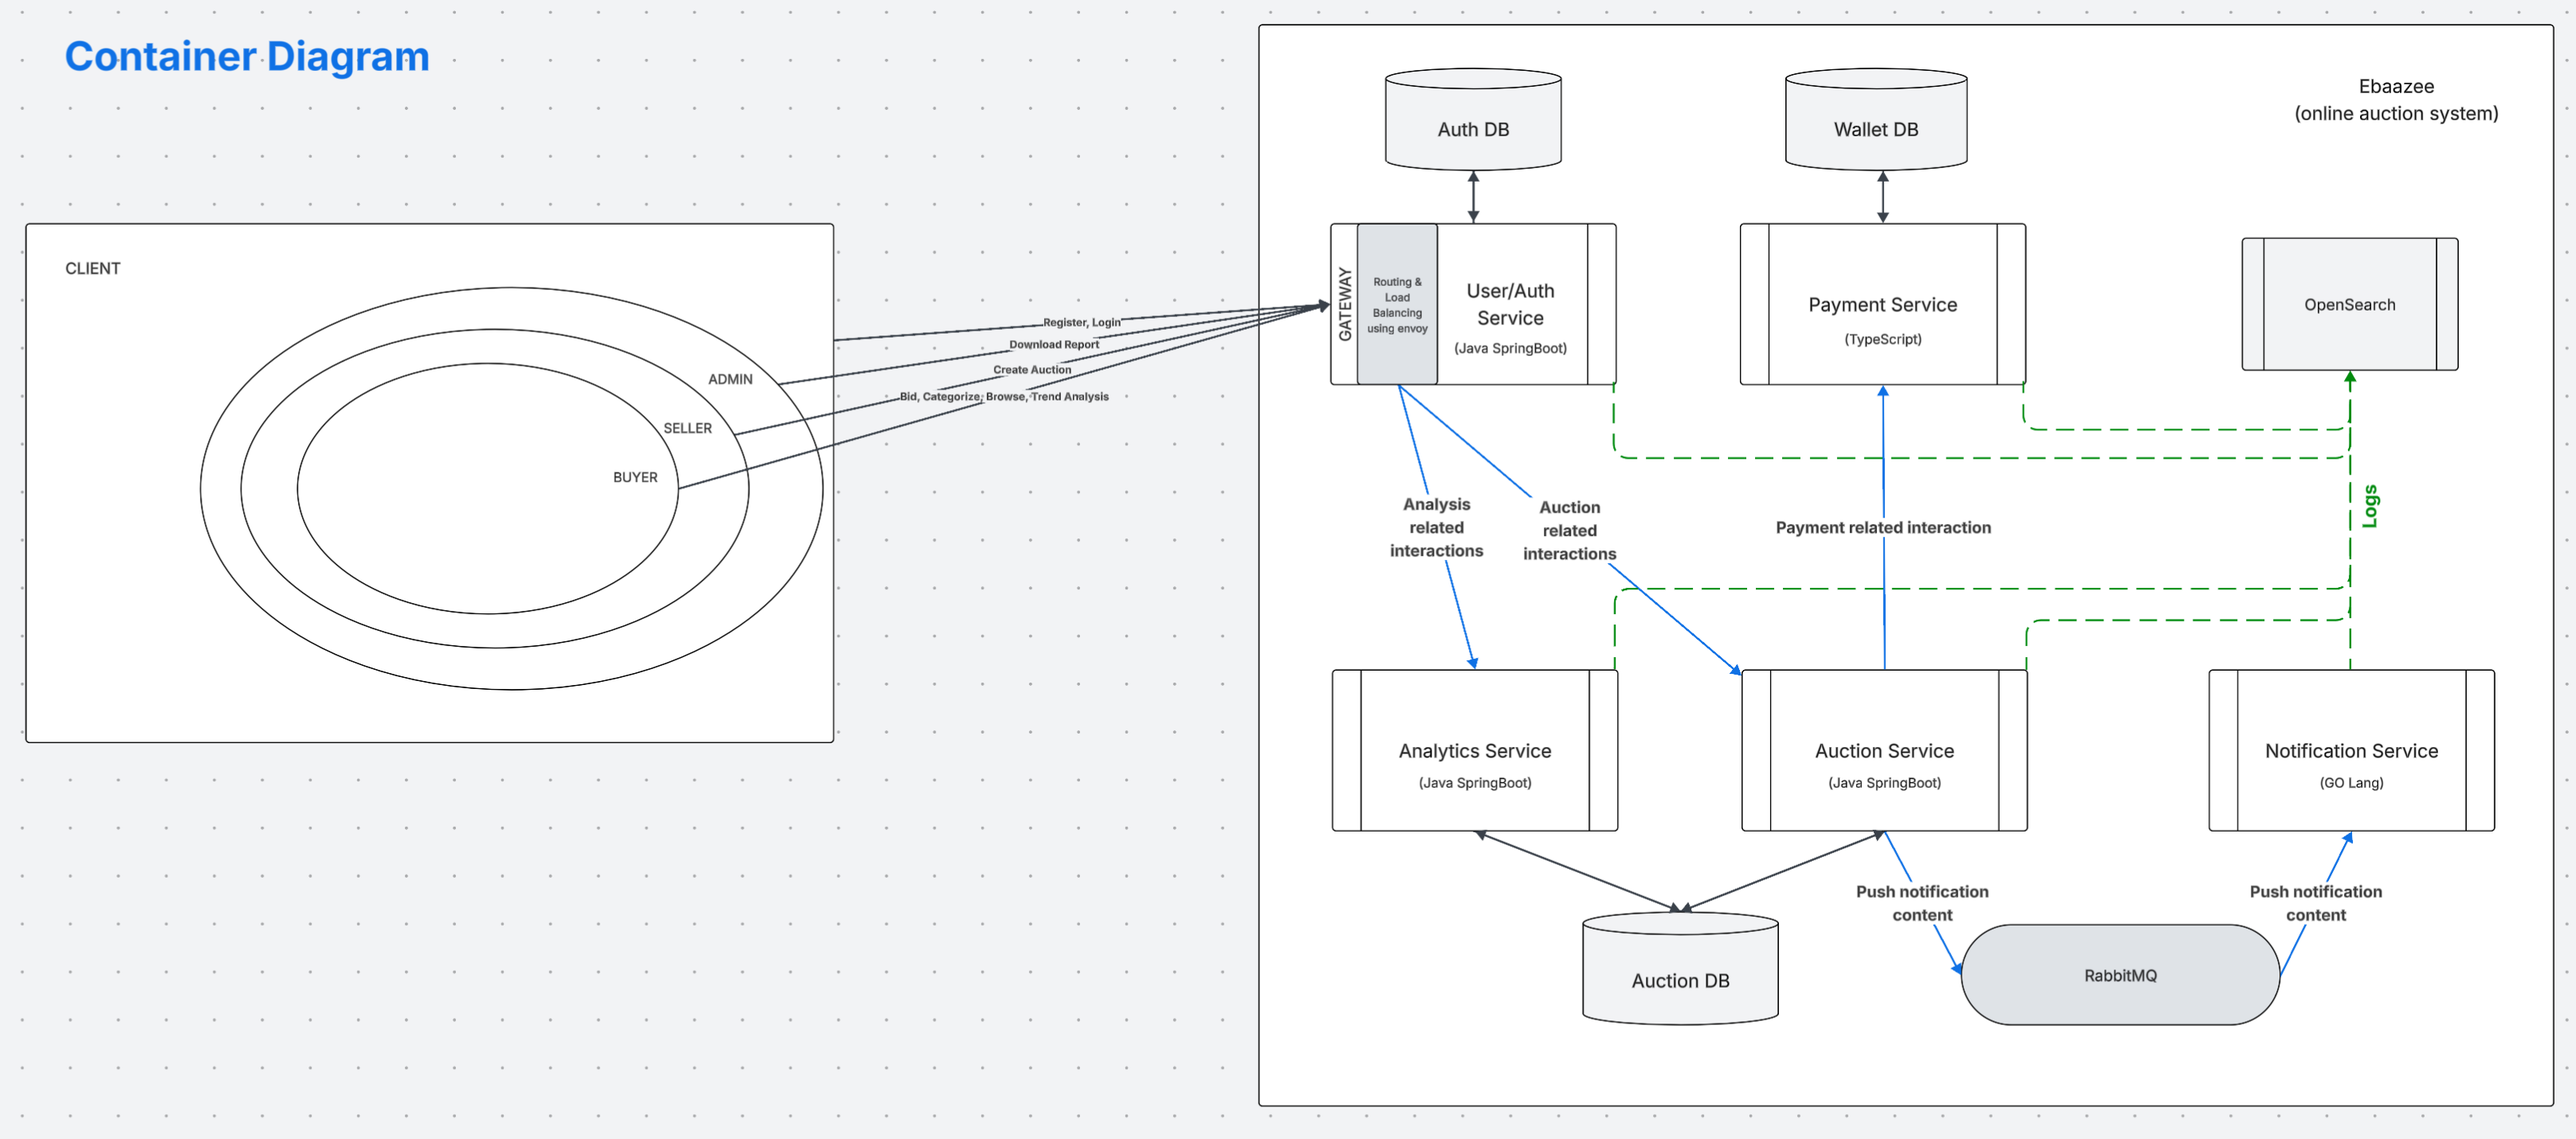
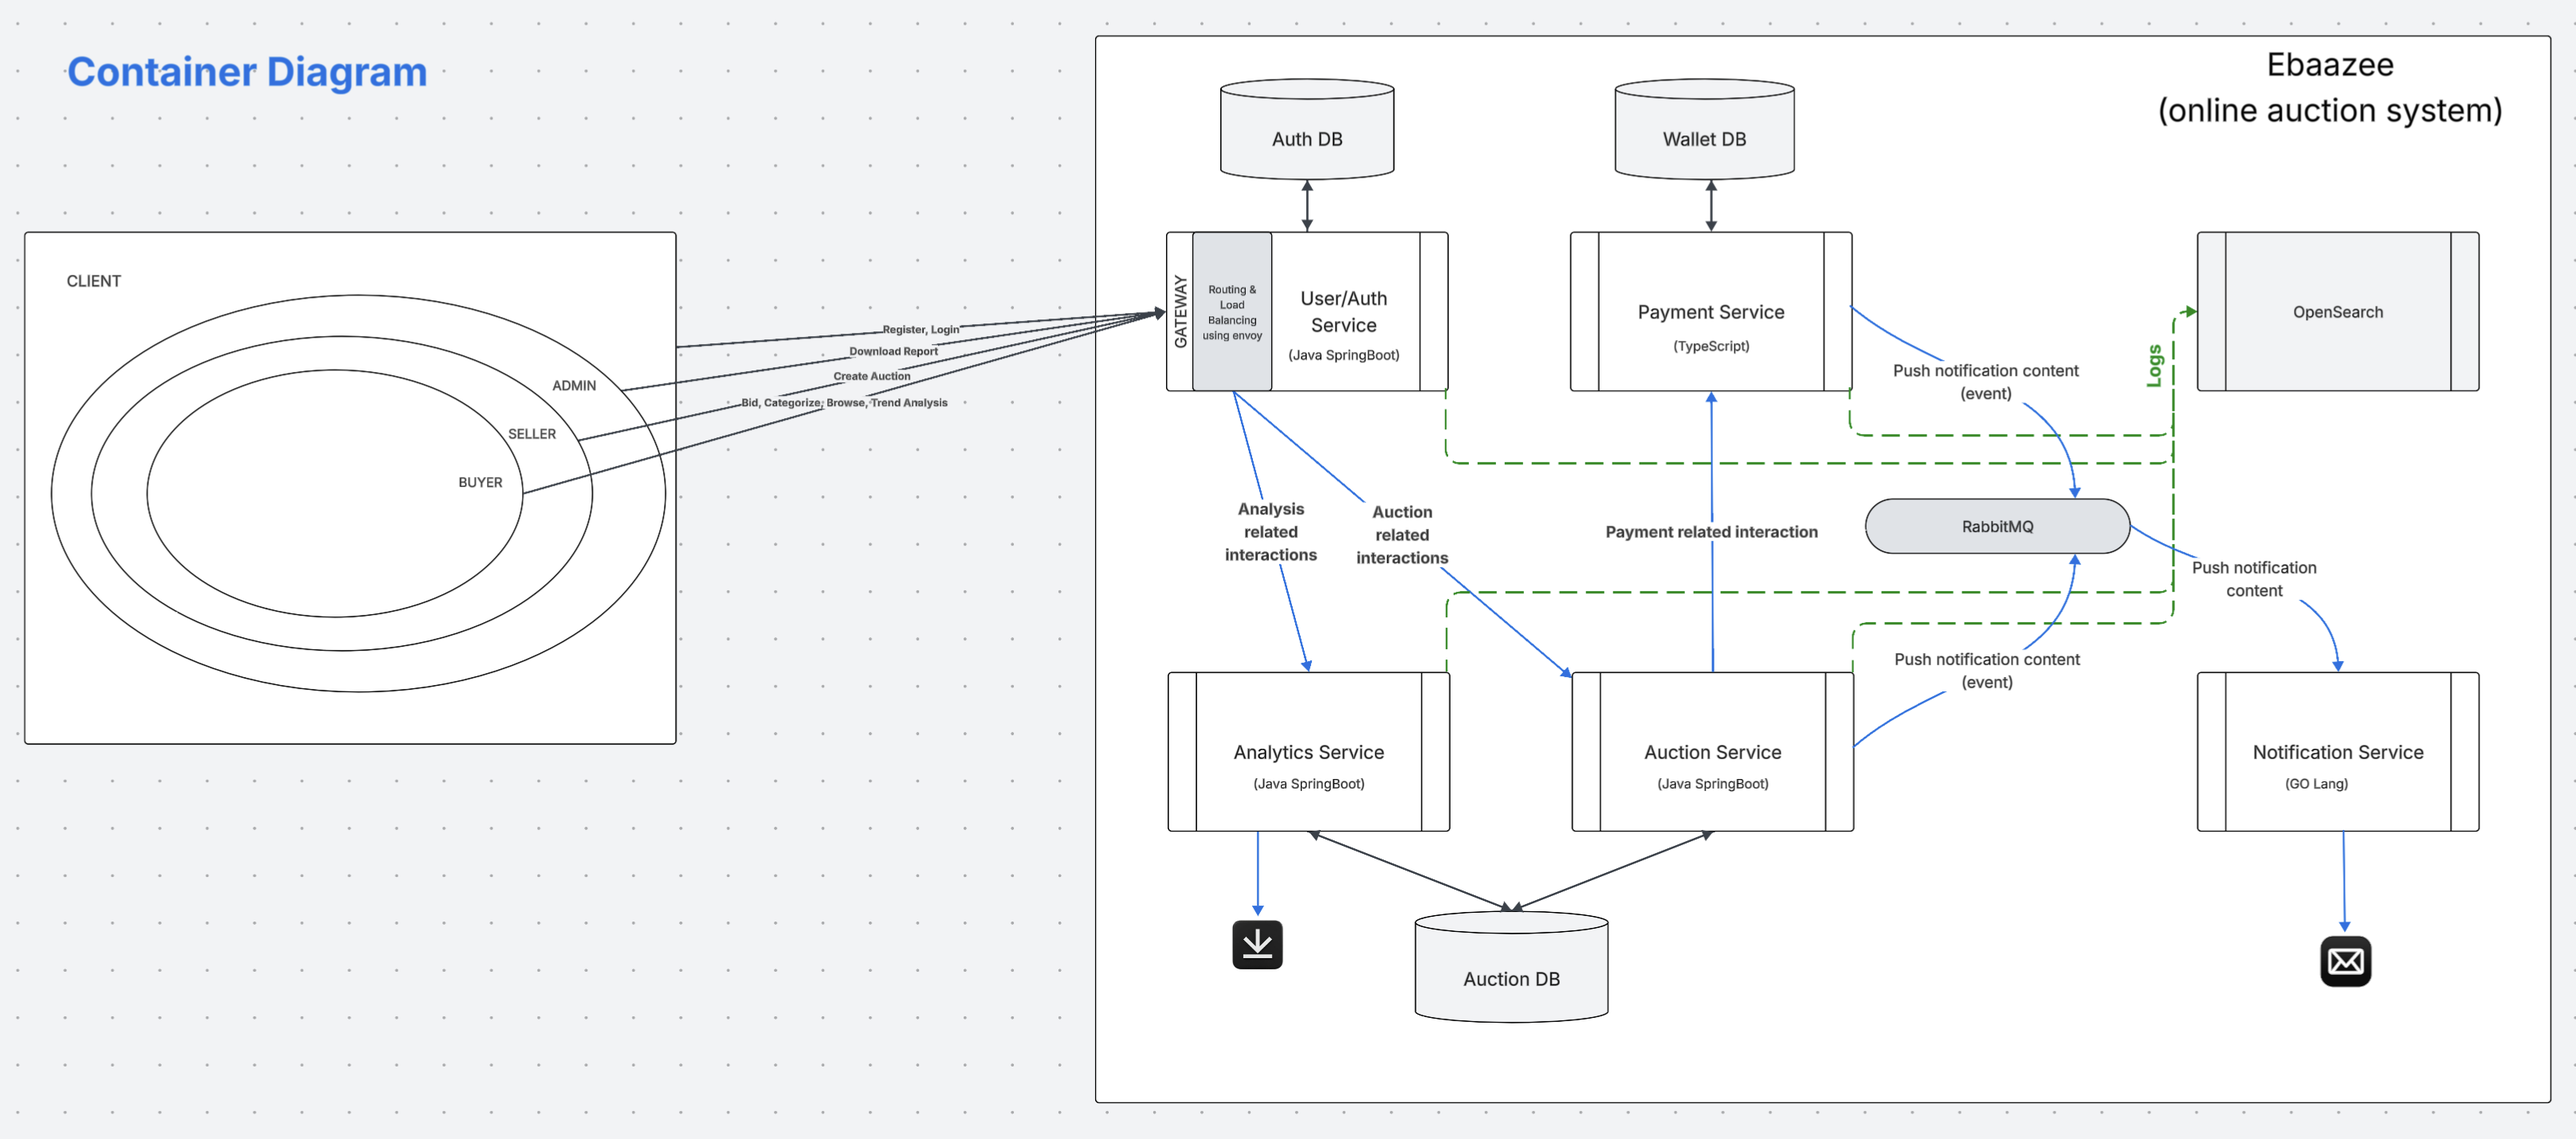
indenttaion

diff --git a/README.md b/README.md
@@ -2,7 +2,7 @@
 
 # Ebaazee - Microservices-Based Auction Platform
 
-### Production-Ready REST APIs for Real-Time Auction Management
+### REST APIs for Real-Time Auction Management
 
 
 </div>
@@ -126,15 +126,13 @@ Returns JSON response or base64-encoded Excel file
 
 ---
 
-## Container Diagram
-
-![alt text](container-diagram.png)
-
 ## System Diagram
 
 ![alt text](system-diagram.png)
 
+## Container Diagram
 
+![alt text](container-diagram.png)
 
 ## Quick Start
 
@@ -203,7 +201,7 @@ cd services/analytics-service && ./mvnw spring-boot:run
 
 ####  Register a New User
 ```bash
-curl -X POST http://localhost:8080/api/auth/register \
+curl -X POST http://localhost:8080/api/auth/v1/register \
   -H "Content-Type: application/json" \
   -d '{
     "name": "John Doe",
@@ -224,7 +222,7 @@ curl -X POST http://localhost:8080/api/auth/register \
 
 #### Login and Obtain JWT Token
 ```bash
-curl -X POST http://localhost:8080/api/auth/login \
+curl -X POST http://localhost:8080/api/auth/v1/login \
   -H "Content-Type: application/json" \
   -d '{
     "email": "john.doe@example.com",
@@ -244,7 +242,7 @@ export TOKEN="<your-access-token>"
 
 ####  View Available Auctions
 ```bash
-curl http://localhost:8080/api/auctions \
+curl http://localhost:8080/api/auctions/v1 \
   -H "Authorization: Bearer $TOKEN"
 
 # Expected Response:
@@ -265,7 +263,7 @@ curl http://localhost:8080/api/auctions \
 
 ####  Get Product Details
 ```bash
-curl http://localhost:8080/api/products/1 \
+curl http://localhost:8080/api/products/v1 \
   -H "Authorization: Bearer $TOKEN"
 
 # Expected Response:
@@ -296,7 +294,7 @@ curl http://localhost:8080/api/payment/wallet/<userId> \
 
 #### Place a Bid
 ```bash
-curl -X POST http://localhost:8080/api/bids \
+curl -X POST http://localhost:8080/api/bids/v1 \
   -H "Authorization: Bearer $TOKEN" \
   -H "Content-Type: application/json" \
   -d '{
@@ -323,7 +321,7 @@ curl -X POST http://localhost:8080/api/bids \
 
 #### View Bids for an Auction
 ```bash
-curl http://localhost:8080/api/bids/auction/1 \
+curl http://localhost:8080/api/bids/auction/v1 \
   -H "Authorization: Bearer $TOKEN"
 
 # Expected Response:
@@ -388,7 +386,7 @@ curl http://localhost:8080/api/analytics/v1/auctions/popular?limit=5 \
 
 #### Download Excel Report (GraphQL - Admin Only)
 ```bash
-curl -X POST http://localhost:8080/api/analytics/graphql \
+curl -X POST http://localhost:8080/api/analytics/v1/graphql \
   -H "Authorization: Bearer $TOKEN" \
   -H "Content-Type: application/json" \
   -d '{
@@ -417,11 +415,8 @@ curl -X POST http://localhost:8080/api/analytics/graphql \
 
 | Endpoint | Method | Description | Auth Required | Role |
 |----------|--------|-------------|---------------|------|
-| `/api/auth/register` | POST | Register new user account | No | - |
-| `/api/auth/login` | POST | Login and obtain JWT tokens | No | - |
-| `/api/auth/refresh` | POST | Refresh access token using refresh token | Yes | - |
-| `/api/auth/logout` | POST | Logout and invalidate tokens | Yes | - |
-| `/api/users/me` | GET | Get current user profile | Yes | - |
+| `/api/auth/v1/register` | POST | Register new user account | No | - |
+| `/api/auth/v1/login` | POST | Login and obtain JWT tokens | No | - |
 
 **Sample Request Bodies:**
 
@@ -568,15 +563,13 @@ All client requests go through the API Gateway with intelligent routing:
 
 | Route Pattern | Target Service | Features |
 |---------------|----------------|----------|
-| `/api/auth/*` | User Service (8081) | Retry on 5xx (2 attempts), 2s timeout |
-| `/api/users/*` | User Service (8081) | Retry on 5xx (2 attempts), 2s timeout |
-| `/api/products/*` | Auction Service (8082) | Retry on 5xx (1 attempt), 2s timeout |
-| `/api/auctions/*` | Auction Service (8082) | Circuit breaker (max 100 connections) |
-| `/api/bids/*` | Auction Service (8082) | Circuit breaker (max 100 connections) |
-| `/api/categories/*` | Auction Service (8082) | Load balancing (round-robin) |
+| `/api/auth/v1*` | User Service (8081) | Retry on 5xx (2 attempts), 2s timeout |
+| `/api/users/v1*` | User Service (8081) | Retry on 5xx (2 attempts), 2s timeout |
+| `/api/products/v1*` | Auction Service (8082) | Retry on 5xx (1 attempt), 2s timeout |
+| `/api/auctions/v1*` | Auction Service (8082) | Circuit breaker (max 100 connections) |
+| `/api/bids/v1*` | Auction Service (8082) | Circuit breaker (max 100 connections) |
+| `/api/categories/v1*` | Auction Service (8082) | Load balancing (round-robin) |
 | `/api/payment/*` | Payment Service (8086) | Circuit breaker (max 50 connections) |
-| `/api/notifications/*` | Notification Service (8083) | Standard routing |
-| `/api/analytics/graphql` | Analytics Service (8085) | Path rewrite to `/graphql` |
 | `/api/analytics/*` | Analytics Service (8085) | Standard routing |
 
 **Gateway Features:**
